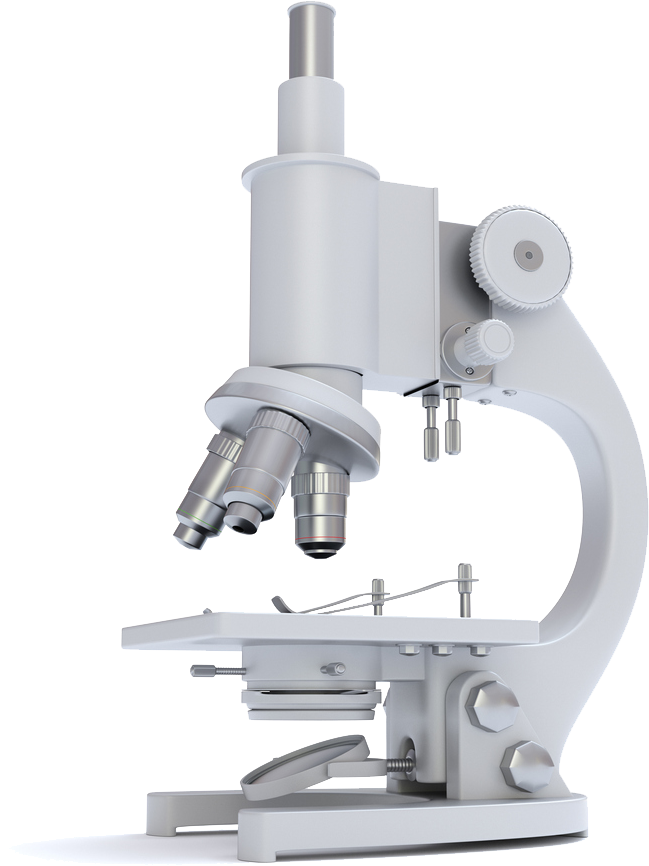
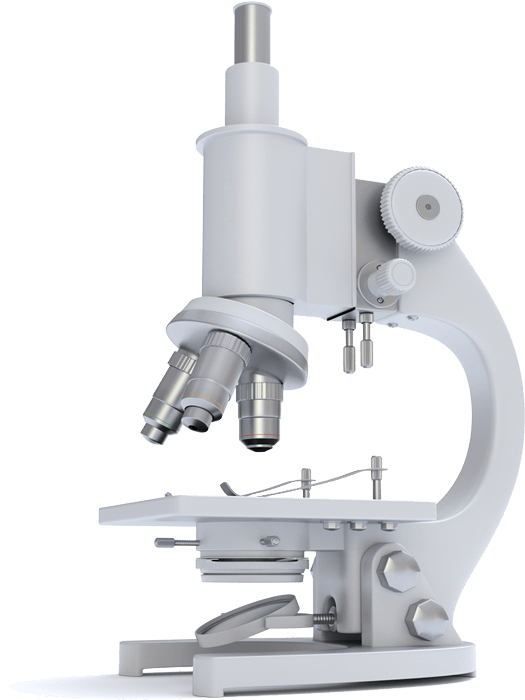
Working on hero image

diff --git a/src/app/base/footer/footer.component.html b/src/app/base/footer/footer.component.html
@@ -44,6 +44,15 @@
       </ul>
     </div>
 
+    <div class="section">
+      <div class="section-header">Equipment</div>
+      <ul class="section-list">
+        <li>
+          <a routerLink="/for-sale">For Sale</a>
+        </li>
+      </ul>
+    </div>
+
 
     <div class="disclaimer">
       <p>Lorem ipsum dolor sit amet, consectetur adipiscing elit. Aenean tincidunt fringilla massa, nec euismod ipsum feugiat
@@ -60,7 +69,7 @@
     </div>
 
     <div>
-      <a class="" [routerLink]="['']">
+      <a class="" routerLink="/">
         <svg xmlns="http://www.w3.org/2000/svg" xmlns:xlink="http://www.w3.org/1999/xlink" viewBox="0 0 290.7 78.66">
           <defs>
             <style>

diff --git a/src/app/base/home-page/home-page.component.html b/src/app/base/home-page/home-page.component.html
@@ -6,5 +6,8 @@
     </div>
     <a routerLink="/contact"><button class="call-to-action" type="button">Start solving</button></a>
   </div>
-  <img src="/assets/images/microscope.png" alt="">
+  <picture class="hero-image">
+    <source srcset="/assets/images/microscope.webp" type="image/webp">
+    <img src="/assets/images/microscope.png" alt="microscope">
+  </picture>
 </section>

diff --git a/src/app/base/home-page/home-page.component.scss b/src/app/base/home-page/home-page.component.scss
@@ -29,7 +29,8 @@ h1 {
   grid-column: 2/6;
 }
 
-img {
+.hero-image {
+  padding: 2em 0;
   grid-column: 6/8;
   max-width: 100%;
 }
